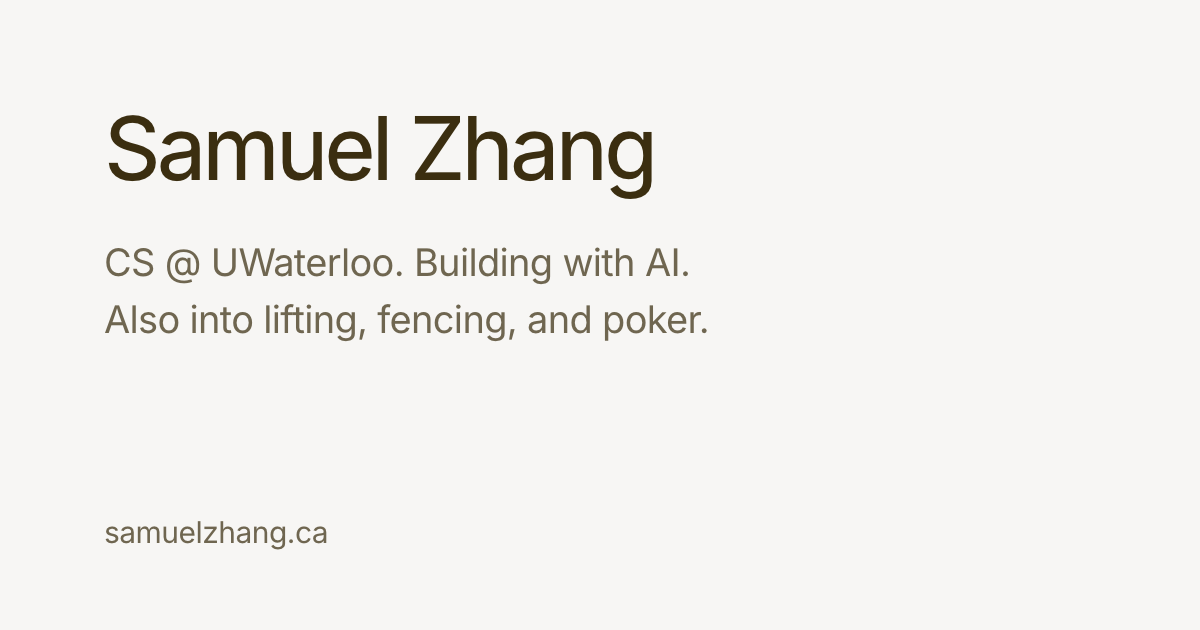
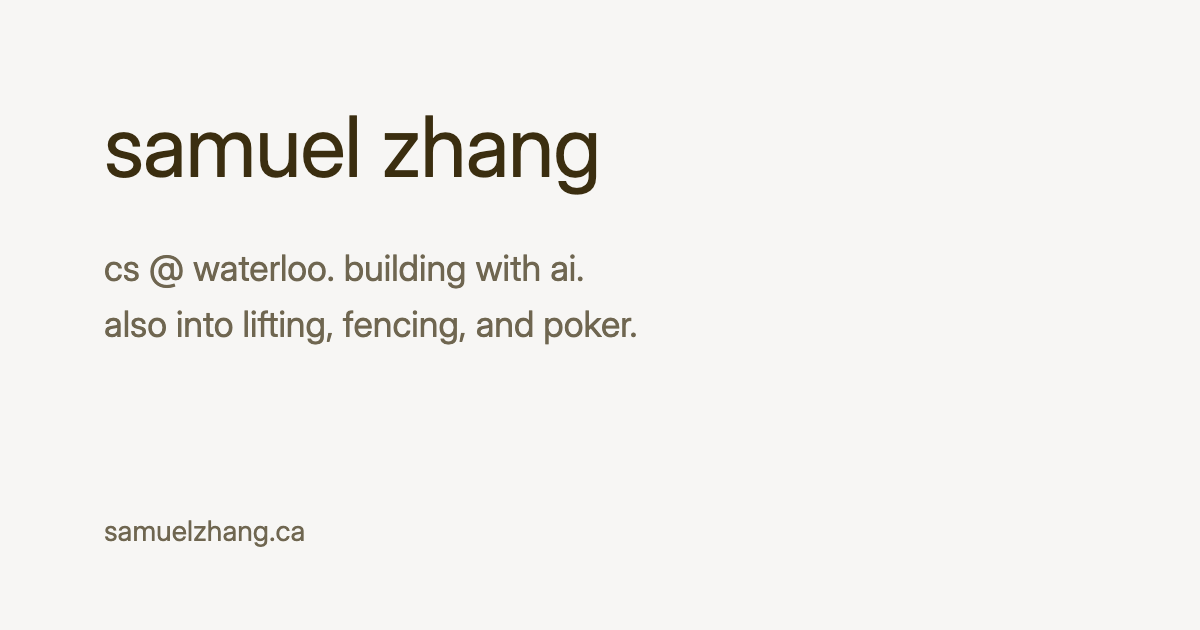
Remake the share image in lowercase; say waterloo, not uwaterloo

diff --git a/src/config.tsx b/src/config.tsx
@@ -24,7 +24,7 @@ const BIO: (string | { text: string; href: string })[] = [
     'currently ',
     { text: 'bumming', href: 'https://www.noahpinion.blog/p/bumbition' },
     ' around. i studied cs at ',
-    { text: 'uwaterloo', href: 'https://uwaterloo.ca' },
+    { text: 'waterloo', href: 'https://uwaterloo.ca' },
     '. i was the youngest engineer at ',
     { text: 'openart', href: 'https://openart.ai/' },
     ' and ',
